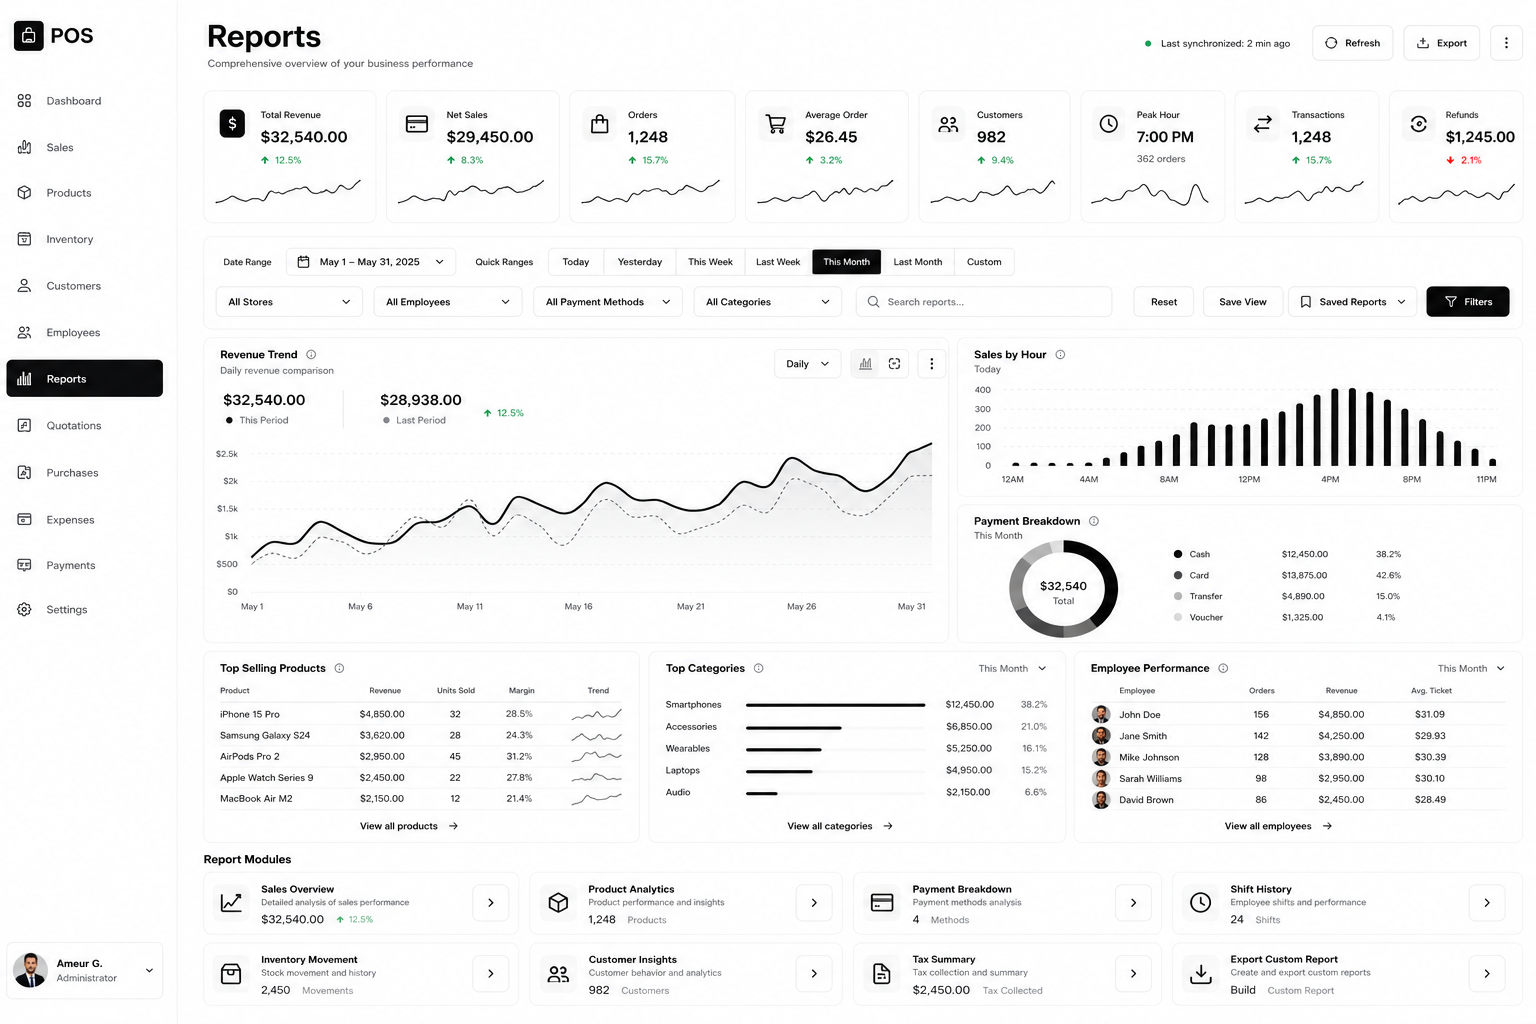
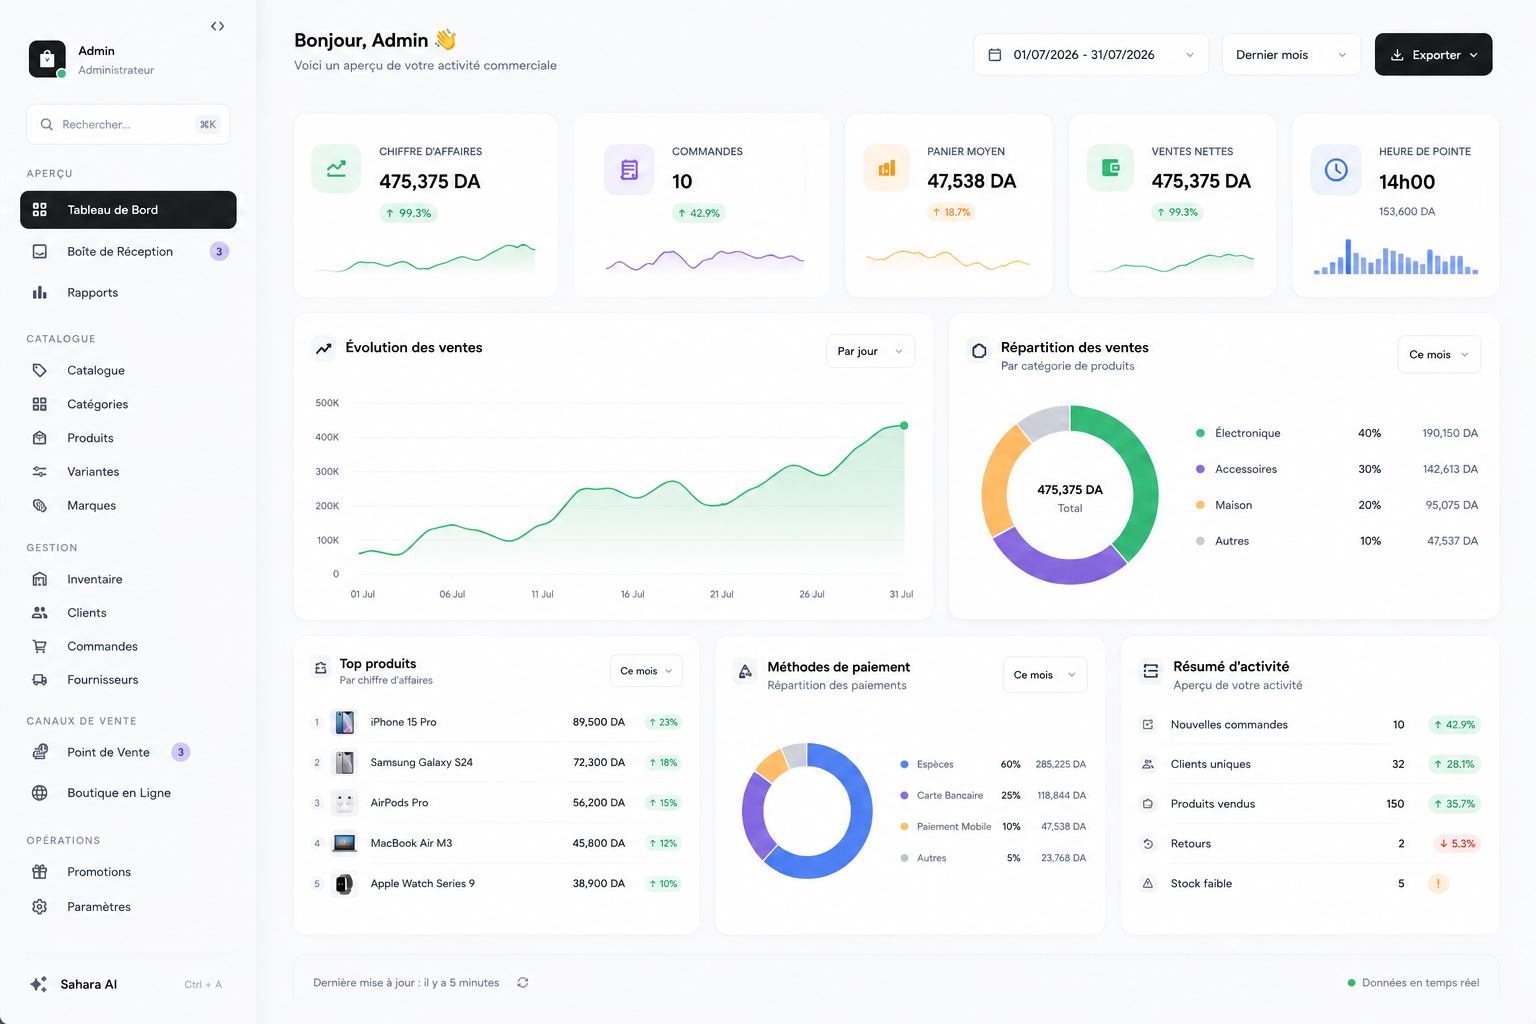
Update hero image for improved visual appeal in retail section.

diff --git a/components/retail/RetailHero.tsx b/components/retail/RetailHero.tsx
@@ -1,8 +1,6 @@
 import Image from "next/image";
-import Link from "next/link";
 import { Button } from "@/components/ui";
 import { Reveal } from "@/components/motion/Reveal";
-import { retailFeatureIcon } from "@/components/retail/RetailFeatureIcons";
 import type { RetailOperationsCarouselCopy } from "@/components/retail/RetailOperationsCarousel";
 import { lp, type Locale } from "@/lib/i18n-config";
 
@@ -22,19 +20,31 @@ type Props = {
   name: string;
   oneLiner: string;
   landing: RetailLandingCopy;
-  homeLabel: string;
-  productsLabel: string;
   requestQuoteLabel: string;
   viewPricingLabel: string;
 };
+
+function LockIcon({ className }: { className?: string }) {
+  return (
+    <svg
+      viewBox="0 0 16 16"
+      className={className}
+      fill="none"
+      stroke="currentColor"
+      strokeWidth="1.5"
+      aria-hidden
+    >
+      <rect x="3.5" y="7" width="9" height="6.5" rx="1.5" />
+      <path d="M5.5 7V5.25a2.5 2.5 0 0 1 5 0V7" strokeLinecap="round" />
+    </svg>
+  );
+}
 
 export function RetailHero({
   locale,
   name,
   oneLiner,
   landing,
-  homeLabel,
-  productsLabel,
   requestQuoteLabel,
   viewPricingLabel,
 }: Props) {
@@ -42,122 +52,109 @@ export function RetailHero({
 
   return (
     <section className="relative overflow-hidden">
+      {/* Restrained atmosphere — soft top light, no decorative objects */}
       <div
-        className="pointer-events-none absolute inset-0 bg-[radial-gradient(ellipse_at_top_right,var(--color-surface)_0%,transparent_55%),radial-gradient(ellipse_at_bottom_left,var(--color-surface-2)_0%,transparent_45%)]"
+        className="pointer-events-none absolute inset-0 bg-[radial-gradient(ellipse_80%_50%_at_50%_-10%,var(--color-surface)_0%,transparent_60%)]"
+        aria-hidden
+      />
+      <div
+        className="pointer-events-none absolute inset-x-0 top-0 h-px bg-gradient-to-r from-transparent via-line to-transparent opacity-70"
         aria-hidden
       />
 
-      <div className="relative shell pt-28 md:pt-36 pb-12 md:pb-16">
-        <Reveal>
-          <nav aria-label="Breadcrumb" className="mb-8 md:mb-10">
-            <ol className="flex flex-wrap items-center gap-2 text-sm text-muted">
-              <li>
-                <Link
-                  href={L("/")}
-                  className="inline-flex items-center gap-1.5 hover:text-ink transition-colors"
-                >
-                  <svg
-                    viewBox="0 0 16 16"
-                    className="h-3.5 w-3.5"
-                    fill="none"
-                    stroke="currentColor"
-                    strokeWidth="1.5"
-                    aria-hidden
-                  >
-                    <path
-                      d="M2.5 8 8 3l5.5 5V13a1 1 0 0 1-1 1H9.5V10h-3v4H3.5a1 1 0 0 1-1-1V8Z"
-                      strokeLinejoin="round"
-                    />
-                  </svg>
-                  <span className="sr-only">{homeLabel}</span>
-                </Link>
-              </li>
-              <li aria-hidden className="text-muted-2">
-                /
-              </li>
-              <li>
-                <Link href={L("/products")} className="hover:text-ink transition-colors">
-                  {productsLabel}
-                </Link>
-              </li>
-              <li aria-hidden className="text-muted-2">
-                /
-              </li>
-              <li className="text-ink font-medium" aria-current="page">
-                {name}
-              </li>
-            </ol>
-          </nav>
-        </Reveal>
+      <div className="relative shell pt-28 md:pt-32 lg:pt-36">
+        <div className="mx-auto max-w-[720px] text-center">
+          <Reveal>
+            <span className="inline-flex items-center gap-2 rounded-full border border-line bg-card px-3 py-1.5 text-[0.7rem] font-mono uppercase tracking-[0.14em] text-muted shadow-card">
+              <LockIcon className="h-3.5 w-3.5 text-ink" />
+              {landing.badge}
+            </span>
+          </Reveal>
 
-        <div className="grid items-center gap-10 lg:grid-cols-[minmax(0,1fr)_minmax(0,1.15fr)] lg:gap-12 xl:gap-16">
-          <div className="max-w-xl">
-            <Reveal delay={0.05}>
-              <span className="inline-flex items-center gap-2 rounded-full border border-line bg-card px-3 py-1.5 text-[0.7rem] font-mono uppercase tracking-[0.14em] text-muted">
-                <span className="text-ink">{retailFeatureIcon("bag", "h-3.5 w-3.5")}</span>
-                {landing.badge}
-              </span>
-            </Reveal>
+          <Reveal delay={0.06}>
+            <h1 className="mt-6 text-[clamp(2.75rem,6vw,4.5rem)] leading-[1.02] tracking-[-0.04em] font-semibold text-ink [text-wrap:balance]">
+              {name}
+            </h1>
+          </Reveal>
 
-            <Reveal delay={0.1}>
-              <h1 className="mt-5 text-[clamp(2.5rem,5vw,4rem)] leading-[1.05] tracking-[-0.03em] font-semibold text-ink">
-                {name}
-              </h1>
-            </Reveal>
+          <Reveal delay={0.12}>
+            <p className="mx-auto mt-5 max-w-[540px] text-base md:text-lg leading-relaxed text-ink-secondary [text-wrap:pretty]">
+              {oneLiner}
+            </p>
+          </Reveal>
 
-            <Reveal delay={0.16}>
-              <p className="mt-5 text-lg md:text-xl leading-relaxed text-ink-secondary [text-wrap:pretty]">
-                {oneLiner}
-              </p>
-            </Reveal>
-
-            <Reveal delay={0.22}>
-              <div className="mt-8 flex flex-wrap gap-3">
-                <Button href={L("/quote?product=retail")}>{requestQuoteLabel}</Button>
-                <Button href={L("/products/retail/pricing")} variant="secondary">
-                  {viewPricingLabel}
-                </Button>
-              </div>
-            </Reveal>
-
-            <Reveal delay={0.28}>
-              <ul className="mt-9 flex flex-wrap gap-x-5 gap-y-3">
-                {landing.benefits.map((item) => (
-                  <li key={item} className="inline-flex items-center gap-2 text-sm text-ink-secondary">
-                    <span className="inline-flex h-5 w-5 items-center justify-center rounded-full bg-surface-2 text-ink">
-                      <svg
-                        viewBox="0 0 12 12"
-                        className="h-3 w-3"
-                        fill="none"
-                        stroke="currentColor"
-                        strokeWidth="1.5"
-                        aria-hidden
-                      >
-                        <path d="M2.5 6.2 4.8 8.5 9.5 3.5" strokeLinecap="round" strokeLinejoin="round" />
-                      </svg>
-                    </span>
-                    {item}
-                  </li>
-                ))}
-              </ul>
-            </Reveal>
-          </div>
-
-          <Reveal delay={0.12} className="relative">
-            <div className="relative overflow-hidden rounded-[20px] border border-line bg-card shadow-float">
-              <div className="pointer-events-none absolute -inset-8 bg-[radial-gradient(circle_at_30%_20%,rgb(0_0_0/0.04),transparent_55%)] dark:bg-[radial-gradient(circle_at_30%_20%,rgb(255_255_255/0.04),transparent_55%)]" aria-hidden />
-              <Image
-                src="/images/retail/hero.png"
-                alt={`${name} dashboard`}
-                width={1536}
-                height={1024}
-                priority
-                sizes="(max-width: 1024px) 100vw, 56vw"
-                className="relative h-auto w-full"
-              />
+          <Reveal delay={0.18}>
+            <div className="mt-8 flex flex-wrap items-center justify-center gap-3">
+              <Button href={L("/quote?product=retail")}>{requestQuoteLabel}</Button>
+              <Button href={L("/products/retail/pricing")} variant="secondary">
+                {viewPricingLabel}
+              </Button>
             </div>
           </Reveal>
+
+          <Reveal delay={0.24}>
+            <ul className="mt-8 flex flex-wrap items-center justify-center gap-x-5 gap-y-2.5">
+              {landing.benefits.map((item) => (
+                <li key={item} className="inline-flex items-center gap-2 text-sm text-ink-secondary">
+                  <span className="inline-flex h-5 w-5 items-center justify-center rounded-full bg-surface-2 text-ink">
+                    <svg
+                      viewBox="0 0 12 12"
+                      className="h-3 w-3"
+                      fill="none"
+                      stroke="currentColor"
+                      strokeWidth="1.5"
+                      aria-hidden
+                    >
+                      <path d="M2.5 6.2 4.8 8.5 9.5 3.5" strokeLinecap="round" strokeLinejoin="round" />
+                    </svg>
+                  </span>
+                  {item}
+                </li>
+              ))}
+            </ul>
+          </Reveal>
         </div>
+      </div>
+
+      {/* Product reveal — primary visual weight */}
+      <div className="relative mt-12 md:mt-16 lg:mt-[4.5rem]">
+        <div className="shell-wide">
+          <Reveal delay={0.2}>
+            <figure className="relative mx-auto">
+              <div
+                className="pointer-events-none absolute -inset-x-6 top-8 bottom-0 rounded-[40px] bg-[radial-gradient(ellipse_70%_80%_at_50%_0%,var(--color-surface)_0%,transparent_72%)] md:-inset-x-10"
+                aria-hidden
+              />
+
+              <div className="relative overflow-hidden rounded-[22px] border border-line bg-card shadow-float md:rounded-[28px]">
+                <div
+                  className="pointer-events-none absolute inset-0 z-[1] rounded-[inherit] ring-1 ring-inset ring-black/[0.035] dark:ring-white/[0.05]"
+                  aria-hidden
+                />
+
+                {/* Clip from the top so IA + KPIs lead; lower widgets continue the reveal */}
+                <div className="relative max-h-[min(64vh,700px)] overflow-hidden sm:max-h-[min(66vh,760px)] lg:max-h-[min(70vh,820px)]">
+                  <Image
+                    src="/images/retail/hero.png"
+                    alt={`${name} — retail dashboard with inventory, catalog, POS, and store performance`}
+                    width={1536}
+                    height={1024}
+                    priority
+                    sizes="(max-width: 768px) 100vw, (max-width: 1400px) 92vw, 1360px"
+                    className="relative h-auto w-full select-none"
+                  />
+                </div>
+              </div>
+
+              <div
+                className="pointer-events-none absolute inset-x-0 bottom-0 z-[2] h-24 bg-gradient-to-t from-bg from-15% via-bg/70 to-transparent md:h-32 lg:h-40"
+                aria-hidden
+              />
+            </figure>
+          </Reveal>
+        </div>
+
+        <div className="h-4 md:h-8" aria-hidden />
       </div>
     </section>
   );

diff --git a/components/ProductPage.tsx b/components/ProductPage.tsx
@@ -38,7 +38,6 @@ export function ProductPageView({ data }: { data: ProductPageData }) {
     status,
     p,
     c,
-    homeLabel,
     productsLabel,
     retailLanding,
     restaurantLanding,
@@ -60,8 +59,6 @@ export function ProductPageView({ data }: { data: ProductPageData }) {
             name={p.name}
             oneLiner={p.oneLiner}
             landing={retailLanding}
-            homeLabel={homeLabel}
-            productsLabel={productsLabel}
             requestQuoteLabel={c.requestQuoteArrow}
             viewPricingLabel={c.viewPricing}
           />
